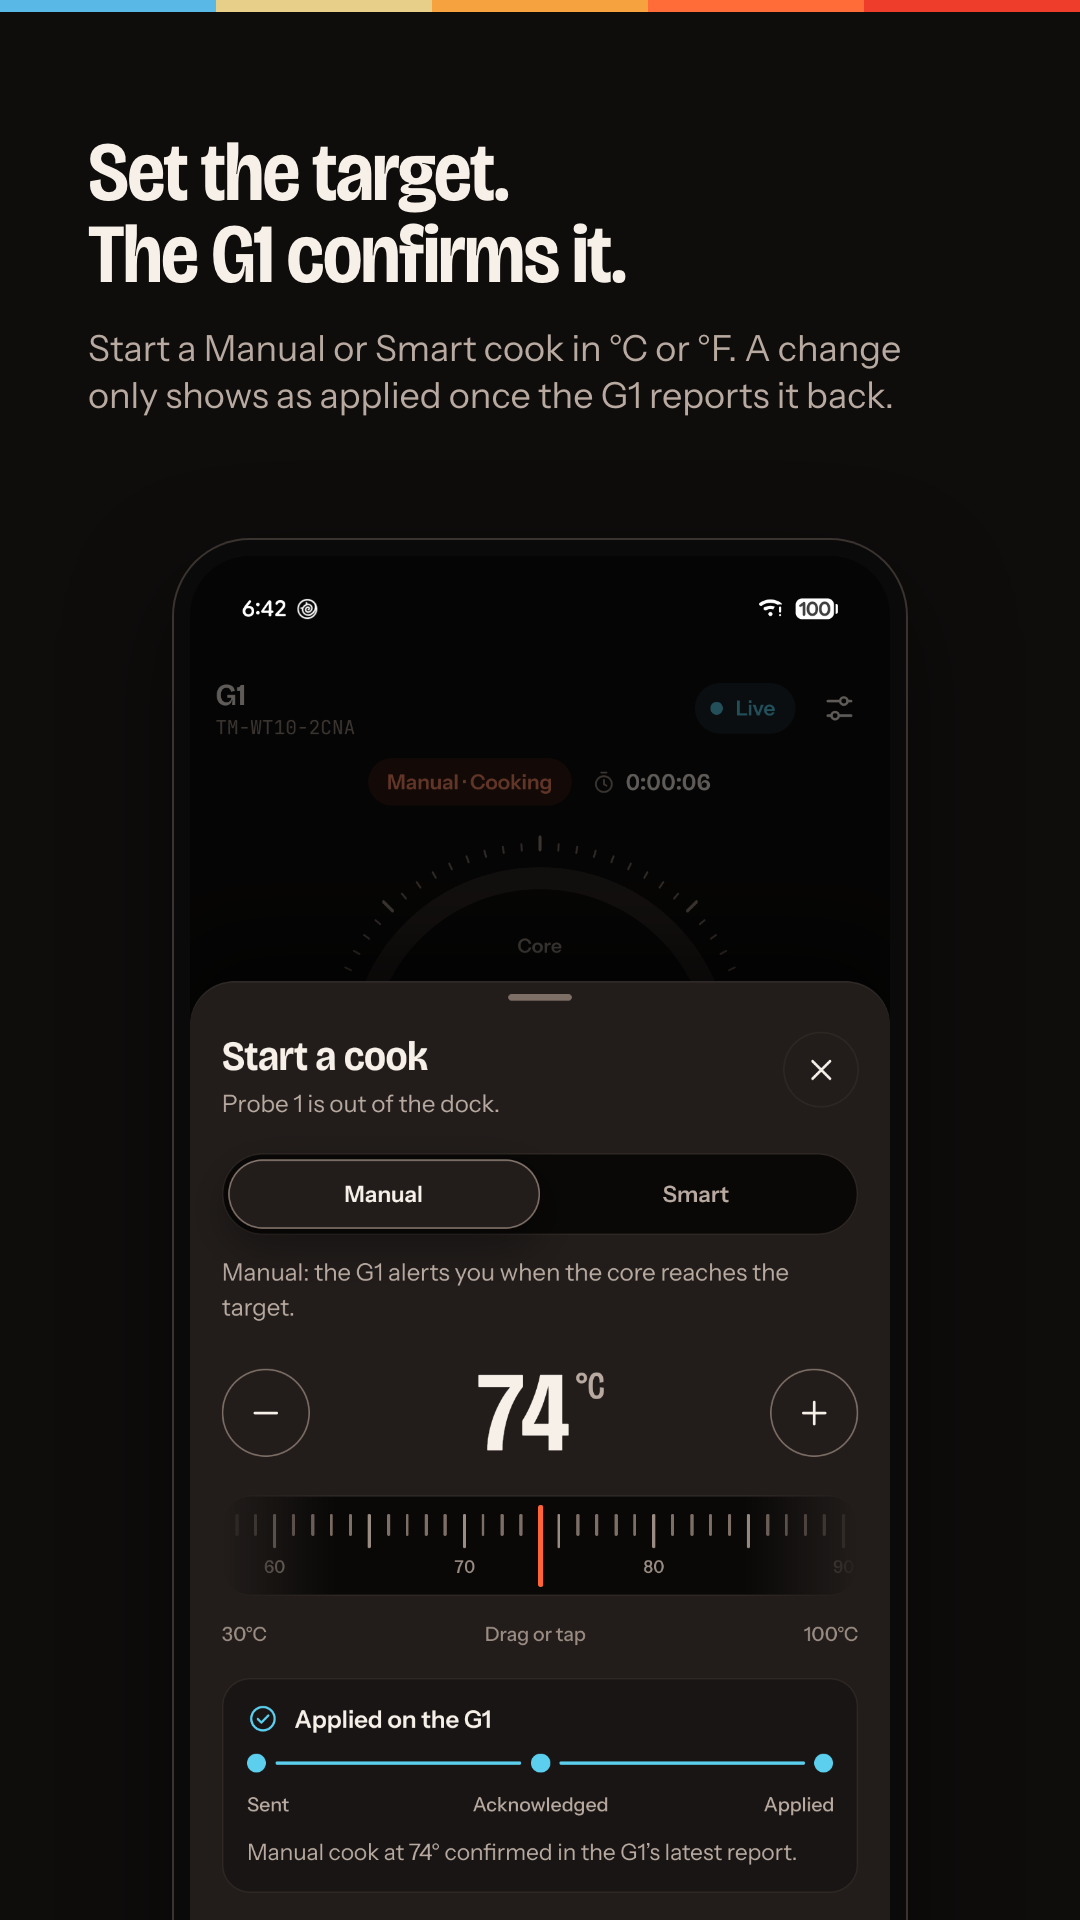
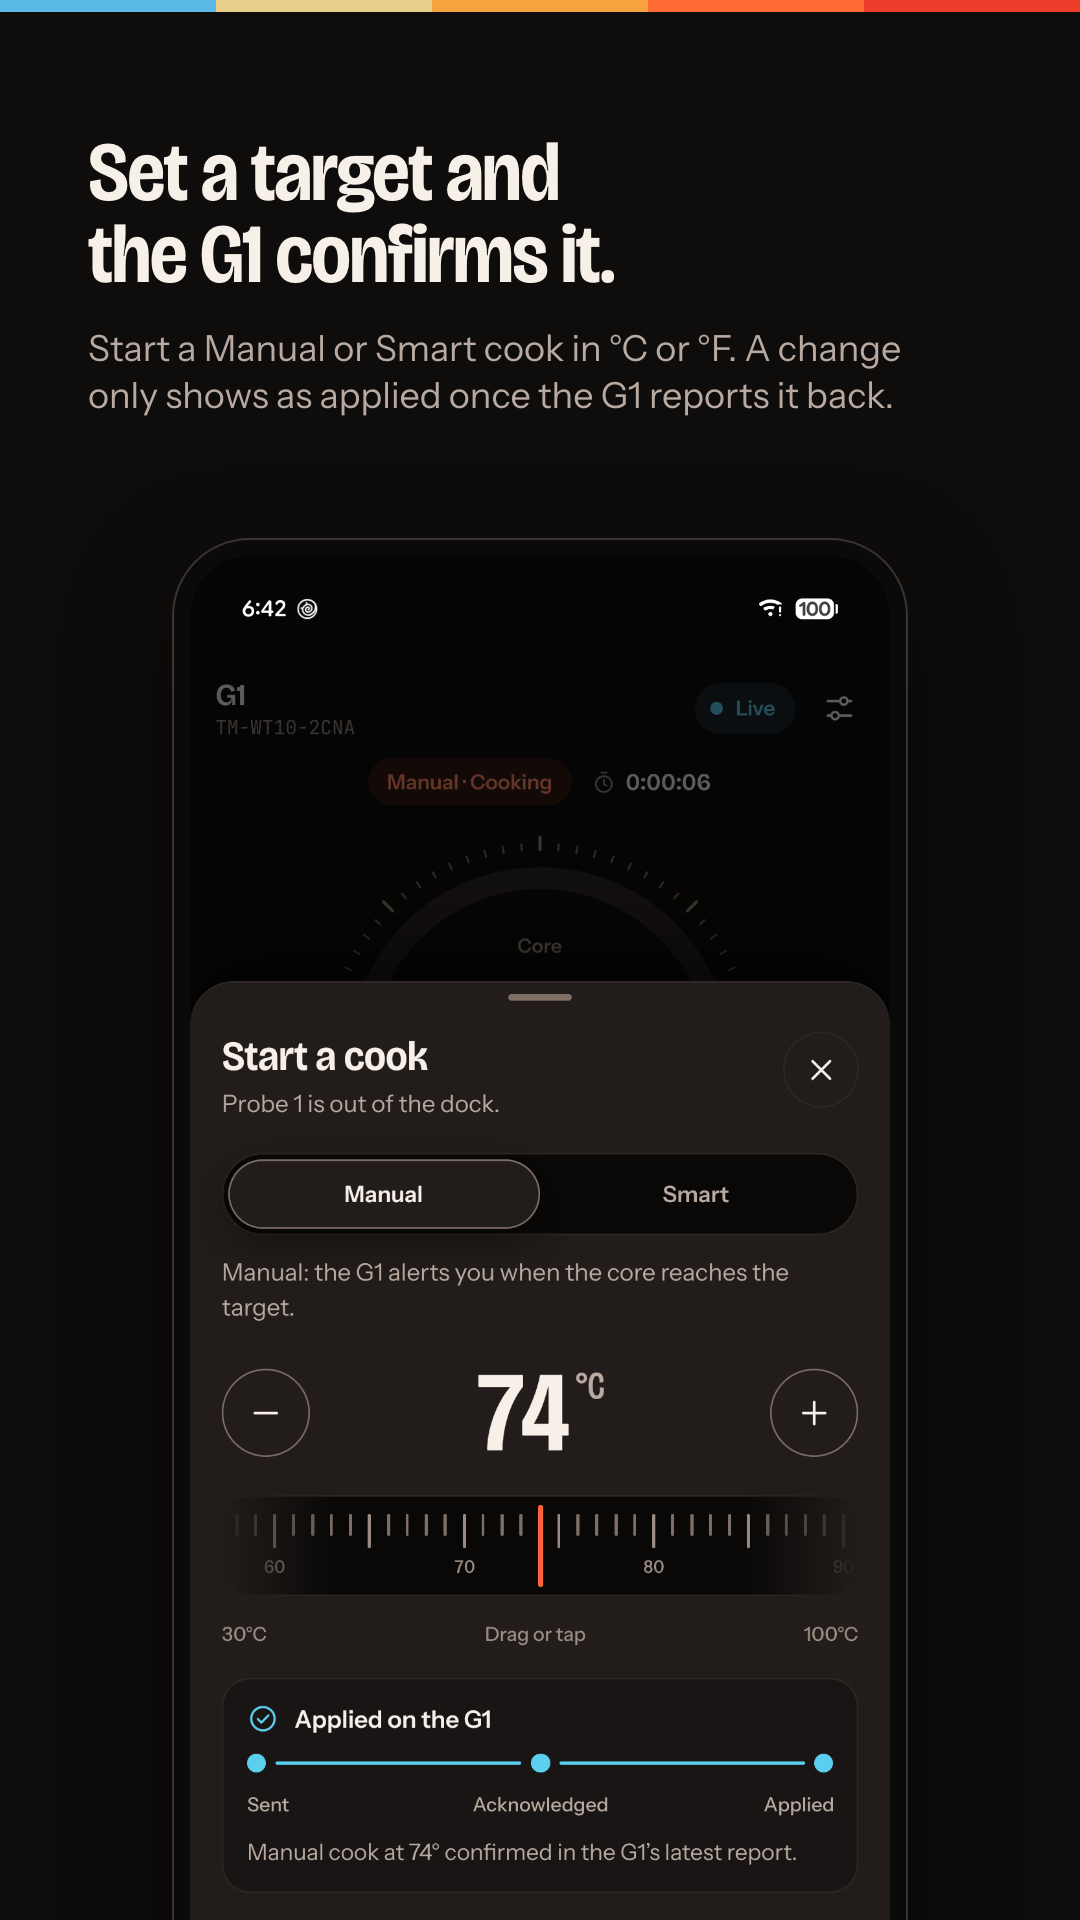
Bump to 0.1.2 so F-Droid ships the store screenshots (#15)

Changed region(s): [[0.0611, 0.0625, 0.5806, 0.1562]]

diff --git a/docs/brand/store/store.html b/docs/brand/store/store.html
@@ -95,7 +95,7 @@ var FRAMES = {
   },
   cook: function () {
     return h(Frame, null,
-      h(Copy, { title: 'Set the target. The G1 confirms it.', sub: 'Start a Manual or Smart cook in °C or °F. A change only shows as applied once the G1 reports it back.' }),
+      h(Copy, { title: 'Set a target and the G1 confirms it.', sub: 'Start a Manual or Smart cook in °C or °F. A change only shows as applied once the G1 reports it back.' }),
       h(Phone, { src: 'applied.png' }));
   },
   pair: function () {
